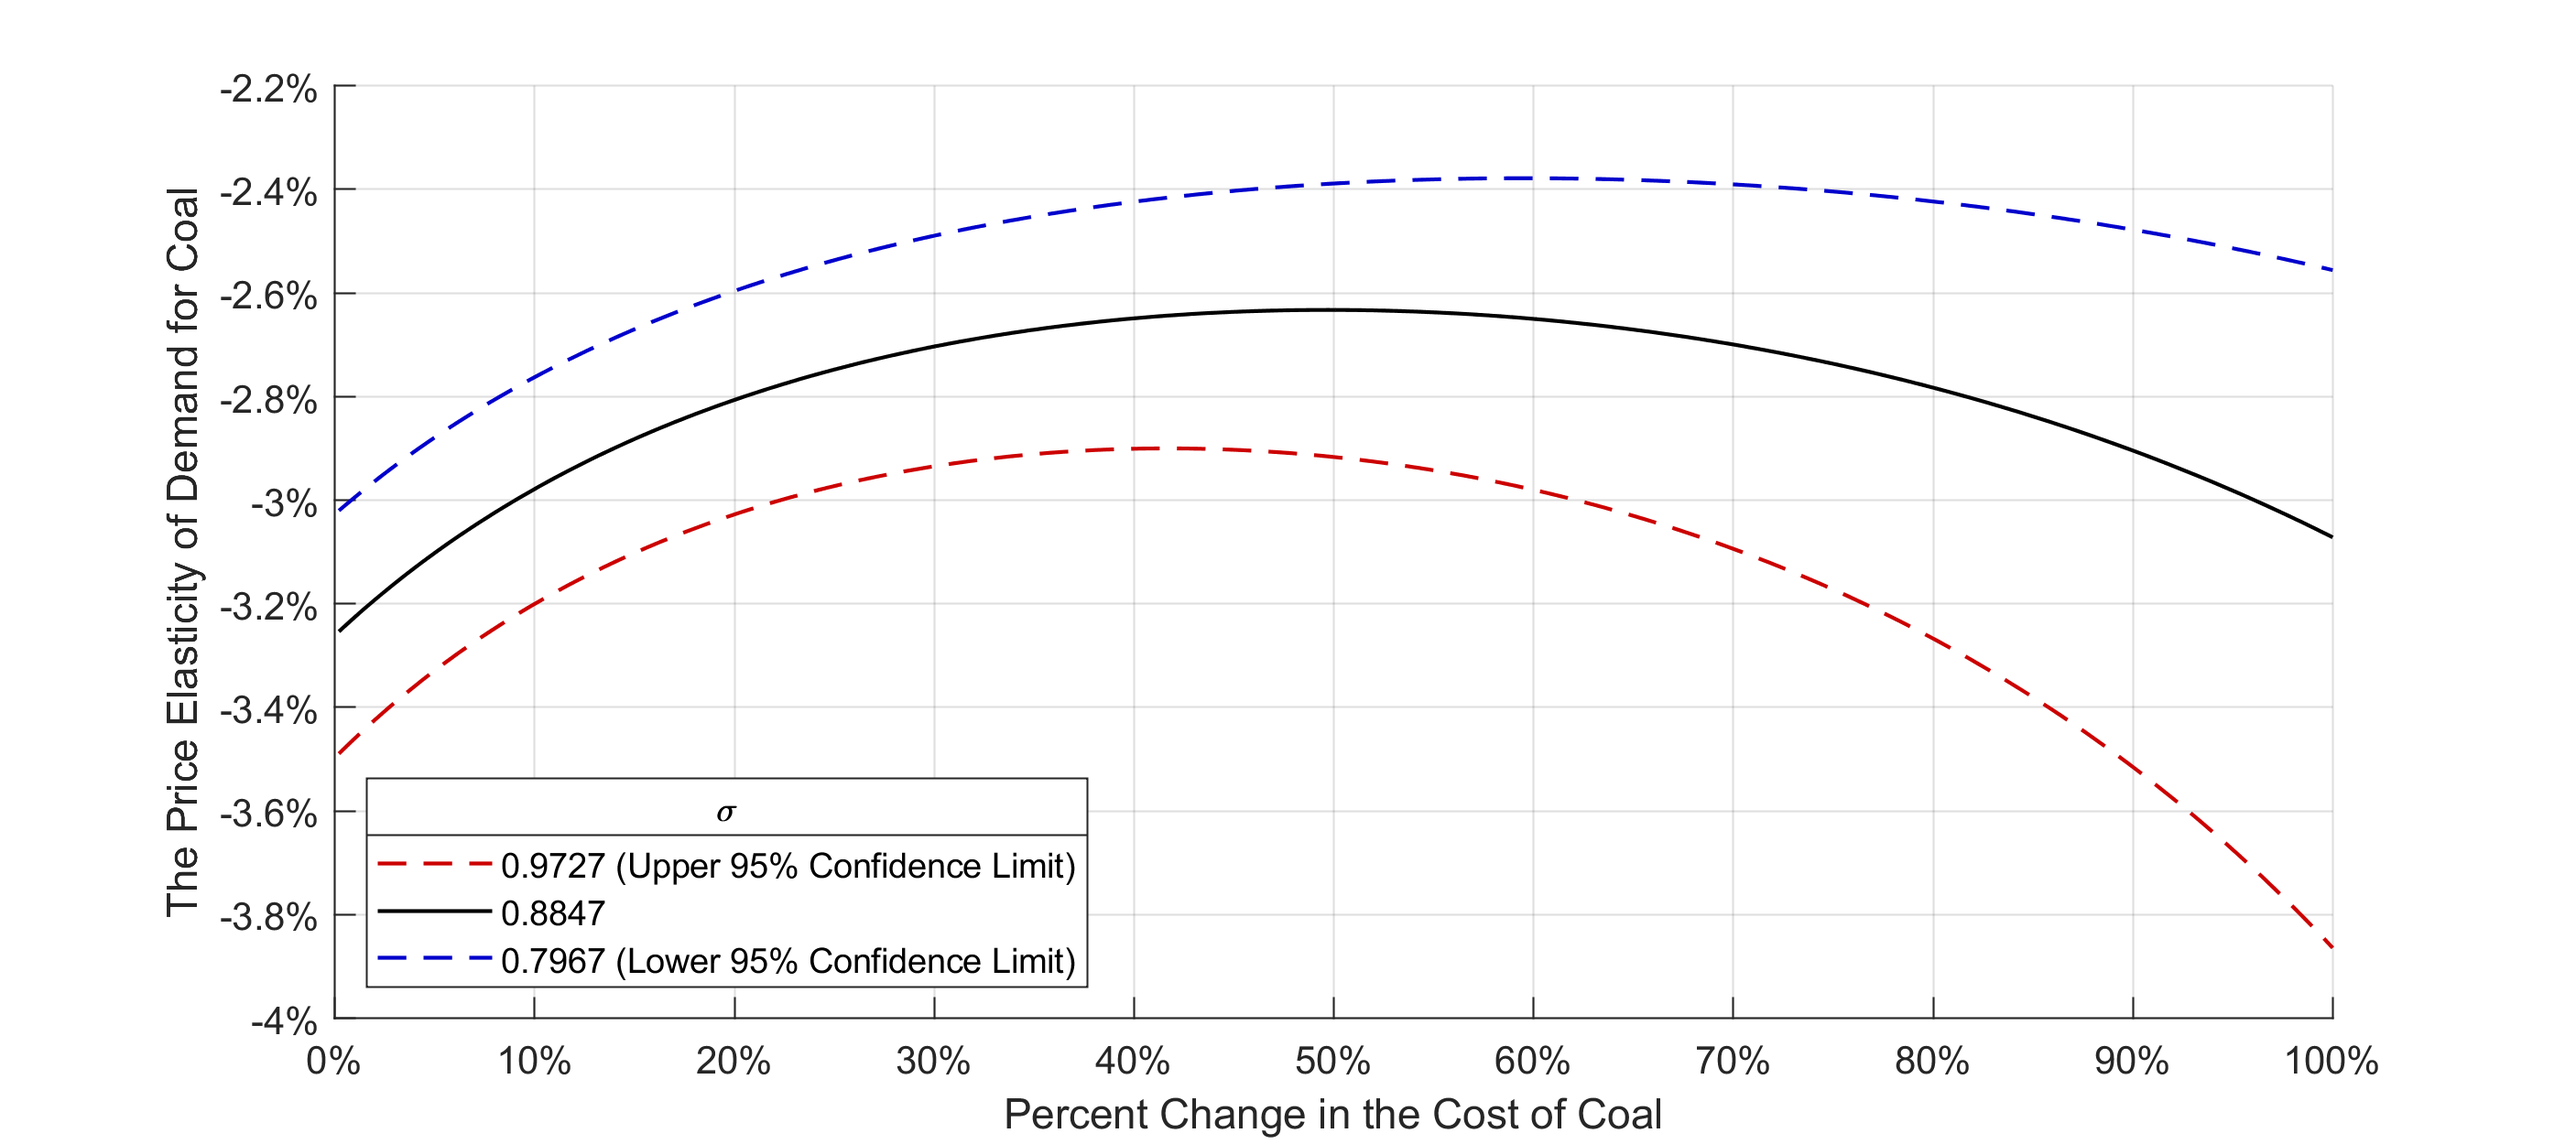
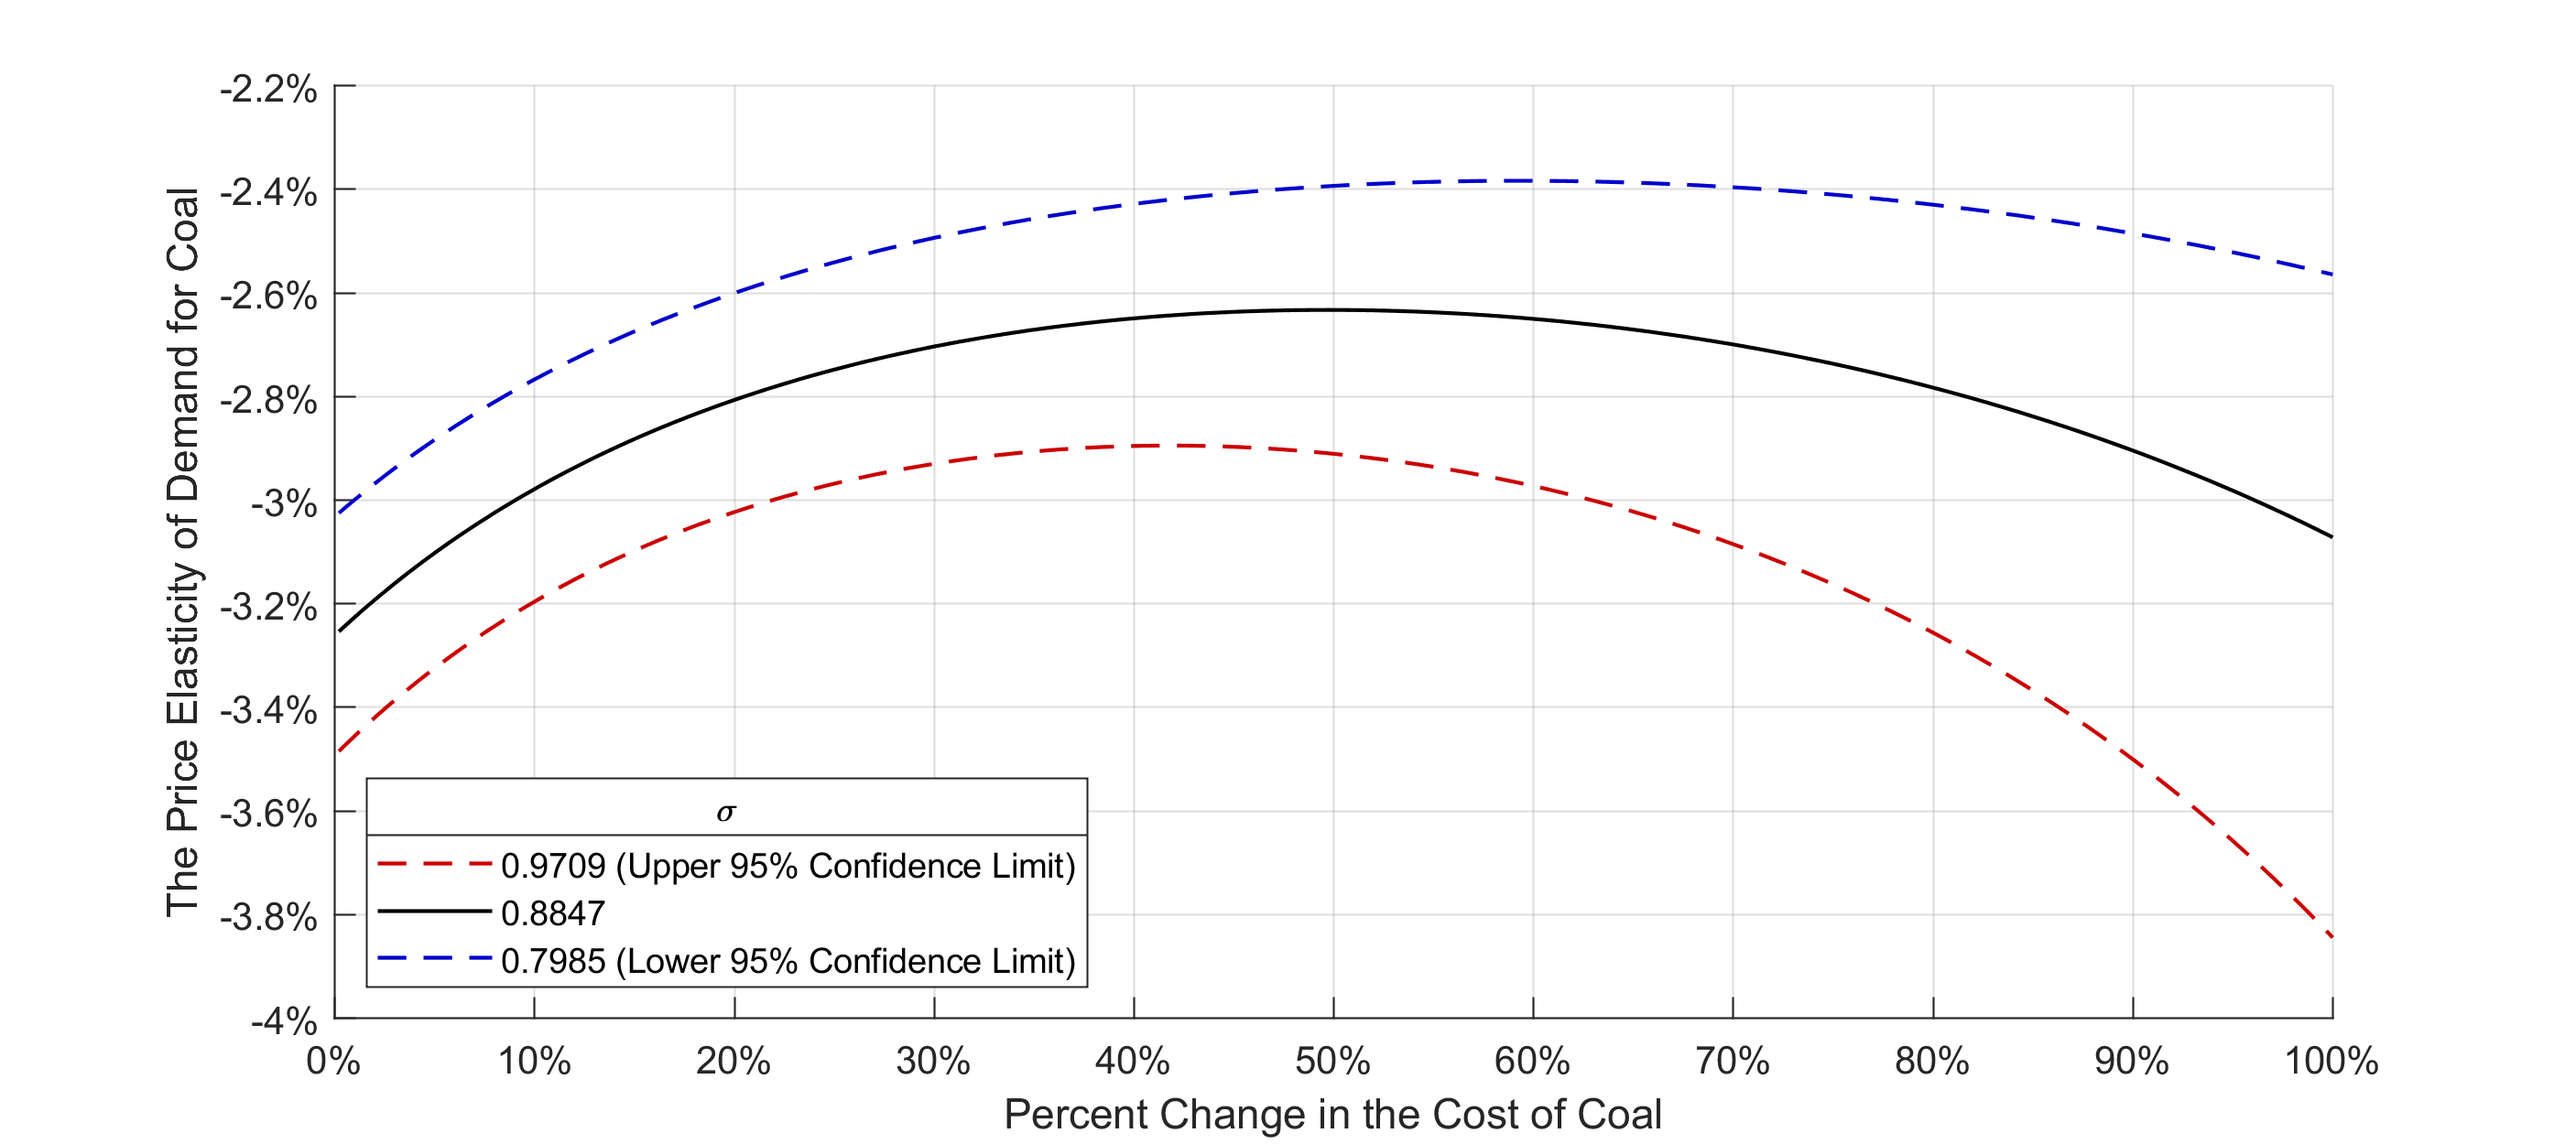
Update code and plots
- change confidence interval from 2 stdev to 95% limits
- update graphs

diff --git a/code/matlab/simulation_april/sim_ves_int.m b/code/matlab/simulation_april/sim_ves_int.m
@@ -4,7 +4,7 @@ close all; clear; clc;
 
 % Simulation params
 n = 5000;
-cost_multiplier = linspace(0.9,2,n);
+cost_multiplier = linspace(1,2,n);
 sigma_range = [0.8847];
 m = length(sigma_range);
 
@@ -13,7 +13,7 @@ c_1 = 104.3;
 c_2 = 60;
 alpha = [0.6, 0.4];
 xi_1  = [1,   1];
-xi_2  = [1, 0.1];
+xi_2  = [1, 0.01];
 budget = 1;
 
 figure('Renderer', 'painters', 'Position', [100 100 900 400])
@@ -66,25 +66,12 @@ for j = 1:m
     % relationship between e and the ratio of quantities
     hold on;
     
-    if sigma == 0.8847
-        plot(output(2,2:end), ...
-            diff(log(output(2,:)))./diff(-log(output(1,:))), ...
-            'LineWidth', 1.5, 'Color', 'k');
-    elseif sigma < 0.8846
-        plot(output(2,2:end), ...
-            diff(log(output(2,:)))./diff(-log(output(1,:))), ...
-            'LineWidth', 1, 'LineStyle', '--', 'Color', [0 0 1]*0.8);
-    else
-        plot(output(2,2:end), ...
-            diff(log(output(2,:)))./diff(-log(output(1,:))), ...
-            'LineWidth', 1, 'LineStyle', '--', 'Color', [1 0 0]*0.8);
-    end
+    plot(output(2,2:end), ...
+        diff(log(output(2,:)))./diff(-log(output(1,:))), ...
+        'LineWidth', 1.5, 'Color', 'k');
     
     % store data for average sigma assumption
-    if sigma == 0.8847
-        mean_output = output;
-    end
-    
+    mean_output = output;
     
 end
 
@@ -119,8 +106,6 @@ annotation('textarrow', [0.45 .34], [.375 .375], ...
     'Interpreter', 'latex', 'fontsize', 14)
 
 % Format plot
-%legend('0.9727 (Upper 95% Confidence Limit)', '0.8847', ...
-%    '0.7967 (Lower 95% Confidence Limit)')
 legend({'Elasticity of Substitution with \sigma = 0.8847'}, ...
     'VES Approximation')
 xlabel({'Ratio of Quantities', 'X_1/X_2'})
@@ -132,9 +117,7 @@ grid('on')
 % Format legend
 [hleg,att] = legend('show');
 legend('Location', 'northwest')
-%title(hleg, {'\sigma', '(Intertemporal Elasticity of Substitution', ...
-%    'for Electricity Consumption)'})
 
 % Save figure
-print(gcf,'fig_ves_approx.png','-dpng','-r300')
+print(gcf,'fig_ves_approx_int.png','-dpng','-r300')
 

diff --git a/code/matlab/simulation_april/sim_tax_subsidy.m b/code/matlab/simulation_april/sim_tax_subsidy.m
@@ -5,7 +5,7 @@ close all; clear; clc;
 % Simulation params
 n = 10000;
 research_multiplier = linspace(1,3,n);
-sigma_range = [0.8847 + 2*0.044, 0.8847, 0.8847 - 2*0.044];
+sigma_range = [0.8847 + 1.96*0.044, 0.8847, 0.8847 - 1.96*0.044];
 m = length(sigma_range);
 
 % Exogenous params
@@ -76,8 +76,8 @@ end
 %% Plot formatting
 
 % Format subplot 1
-legend('0.9727 (Upper 95% Confidence Limit)', '0.8847', ...
-    '0.7967 (Lower 95% Confidence Limit)')
+legend('0.9709 (Upper 95% Confidence Limit)', '0.8847', ...
+    '0.7985 (Lower 95% Confidence Limit)')
 xlabel('Percent Change in the Output Efficiency of Solar')
 ylabel({'Solar Capacity', 'as a Fraction of All Capacity'})
 xtickformat('percentage')
@@ -95,7 +95,7 @@ title(hleg, '\sigma')
 % Simulation params
 n = 10000;
 cost_multiplier = linspace(1,5,n);
-sigma_range = [0.8847 + 2*0.044, 0.8847, 0.8847 - 2*0.044];
+sigma_range = [0.8847 + 1.96*0.044, 0.8847, 0.8847 - 1.96*0.044];
 m = length(sigma_range);
 
 % Exogenous params

diff --git a/code/matlab/simulation_april/sim_adoption_curve.m b/code/matlab/simulation_april/sim_adoption_curve.m
@@ -5,7 +5,7 @@ close all; clear; clc;
 % Simulation params
 n = 5000;
 cost_multiplier = linspace(0.01,2,n);
-sigma_range = [0.8847 + 2*0.044, 0.8847, 0.8847 - 2*0.044];
+sigma_range = [0.8847 + 1.96*0.044, 0.8847, 0.8847 - 1.96*0.044];
 m = length(sigma_range);
 
 % Exogenous params
@@ -77,8 +77,8 @@ end
 %% Plot formatting
 
 % Format plot 1
-legend('0.9727 (Upper 95% Confidence Limit)', '0.8847', ...
-    '0.7967 (Lower 95% Confidence Limit)')
+legend('0.9709 (Upper 95% Confidence Limit)', '0.8847', ...
+    '0.7985 (Lower 95% Confidence Limit)')
 xlabel('Percent Change in the Cost of Solar')
 ylabel({'Solar Capacity', 'as a Fraction of All Capacity'})
 xtickformat('percentage')
@@ -101,7 +101,7 @@ title(hleg, '\sigma')
 % Simulation params
 n = 5000;
 cost_multiplier = linspace(0.50,3,n);
-sigma_range = [0.8847 + 2*0.044, 0.8847, 0.8847 - 2*0.044];
+sigma_range = [0.8847 + 1.96*0.044, 0.8847, 0.8847 - 1.96*0.044];
 m = length(sigma_range);
 
 % Exogenous params

diff --git a/code/matlab/simulation_april/sim_eos.m b/code/matlab/simulation_april/sim_eos.m
@@ -5,7 +5,7 @@ close all; clear; clc;
 % Simulation params
 n = 5000;
 cost_multiplier = linspace(0.5,2,n);
-sigma_range = [0.8847 + 2*0.044, 0.8847, 0.8847 - 2*0.044];
+sigma_range = [0.8847 + 1.96*0.044, 0.8847, 0.8847 - 1.96*0.044];
 m = length(sigma_range);
 
 % Exogenous params
@@ -104,8 +104,8 @@ end
 
 % Format subplot 1
 subplot(2,1,1);
-legend('0.9727 (Upper 95% Confidence Limit)', '0.8847', ...
-    '0.7967 (Lower 95% Confidence Limit)')
+legend('0.9709 (Upper 95% Confidence Limit)', '0.8847', ...
+    '0.7985 (Lower 95% Confidence Limit)')
 xlabel({'Negative Log Difference in Costs', 'log(c_2/c_1)'})
 ylabel({'Log Difference in Quantities', 'log(X_1/X_2)'})
 xlim([-1.3, -0.4])

diff --git a/code/matlab/simulation_april/sim_elasticity.m b/code/matlab/simulation_april/sim_elasticity.m
@@ -5,7 +5,7 @@ close all; clear; clc;
 % Simulation params
 n = 500;
 cost_multiplier = linspace(1, 2, n);
-sigma_range = [0.8847 + 2*0.044, 0.8847, 0.8847 - 2*0.044];
+sigma_range = [0.8847 + 1.96*0.044, 0.8847, 0.8847 - 1.96*0.044];
 m = length(sigma_range);
 
 % Exogenous params
@@ -88,8 +88,8 @@ end
 %% Plot formatting
 
 % Format plot 1
-legend('0.9727 (Upper 95% Confidence Limit)', '0.8847', ...
-    '0.7967 (Lower 95% Confidence Limit)')
+legend('0.9709 (Upper 95% Confidence Limit)', '0.8847', ...
+    '0.7985 (Lower 95% Confidence Limit)')
 xlabel('Percent Change in the Cost of Coal')
 ylabel({'The Price Elasticity of Demand for Coal'})
 xtickformat('percentage')

diff --git a/code/matlab/simulation_april/sim_ves.m b/code/matlab/simulation_april/sim_ves.m
@@ -119,8 +119,6 @@ annotation('textarrow', [0.45 .34], [.375 .375], ...
     'Interpreter', 'latex', 'fontsize', 14)
 
 % Format plot
-%legend('0.9727 (Upper 95% Confidence Limit)', '0.8847', ...
-%    '0.7967 (Lower 95% Confidence Limit)')
 legend({'Elasticity of Substitution with \sigma = 0.8847'}, ...
     'VES Approximation')
 xlabel({'Ratio of Quantities', 'X_1/X_2'})
@@ -132,8 +130,6 @@ grid('on')
 % Format legend
 [hleg,att] = legend('show');
 legend('Location', 'northwest')
-%title(hleg, {'\sigma', '(Intertemporal Elasticity of Substitution', ...
-%    'for Electricity Consumption)'})
 
 % Save figure
 print(gcf,'fig_ves_approx.png','-dpng','-r300')

diff --git a/code/matlab/simulation_april/main.m b/code/matlab/simulation_april/main.m
@@ -8,14 +8,14 @@
 
 alpha = [0.6, 0.4];
 xi_1  = [1, 1];
-xi_2  = [1, 0.1]*1.00;
+xi_2  = [1, 0.9]*1.00;
 
 sigma = 0.5;
 phi   = (sigma - 1)/sigma;
 budget = 1;
 
 x_1_cost_param = 104.3*1.00;
-x_2_cost_param = 50;
+x_2_cost_param = 100;
 
 % Prices
 xi_mat   = [xi_1; xi_2];
